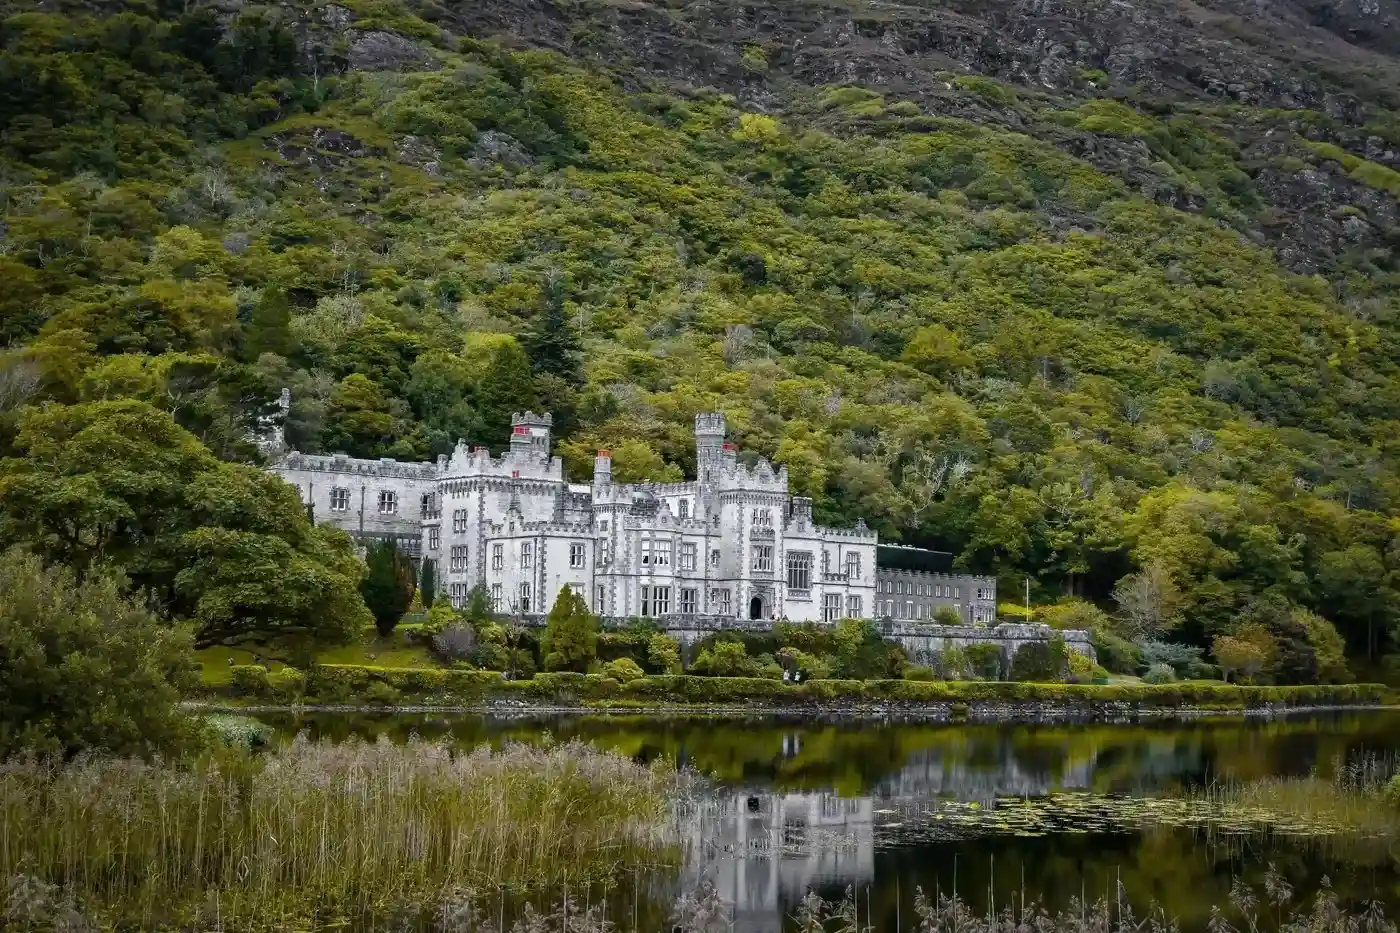
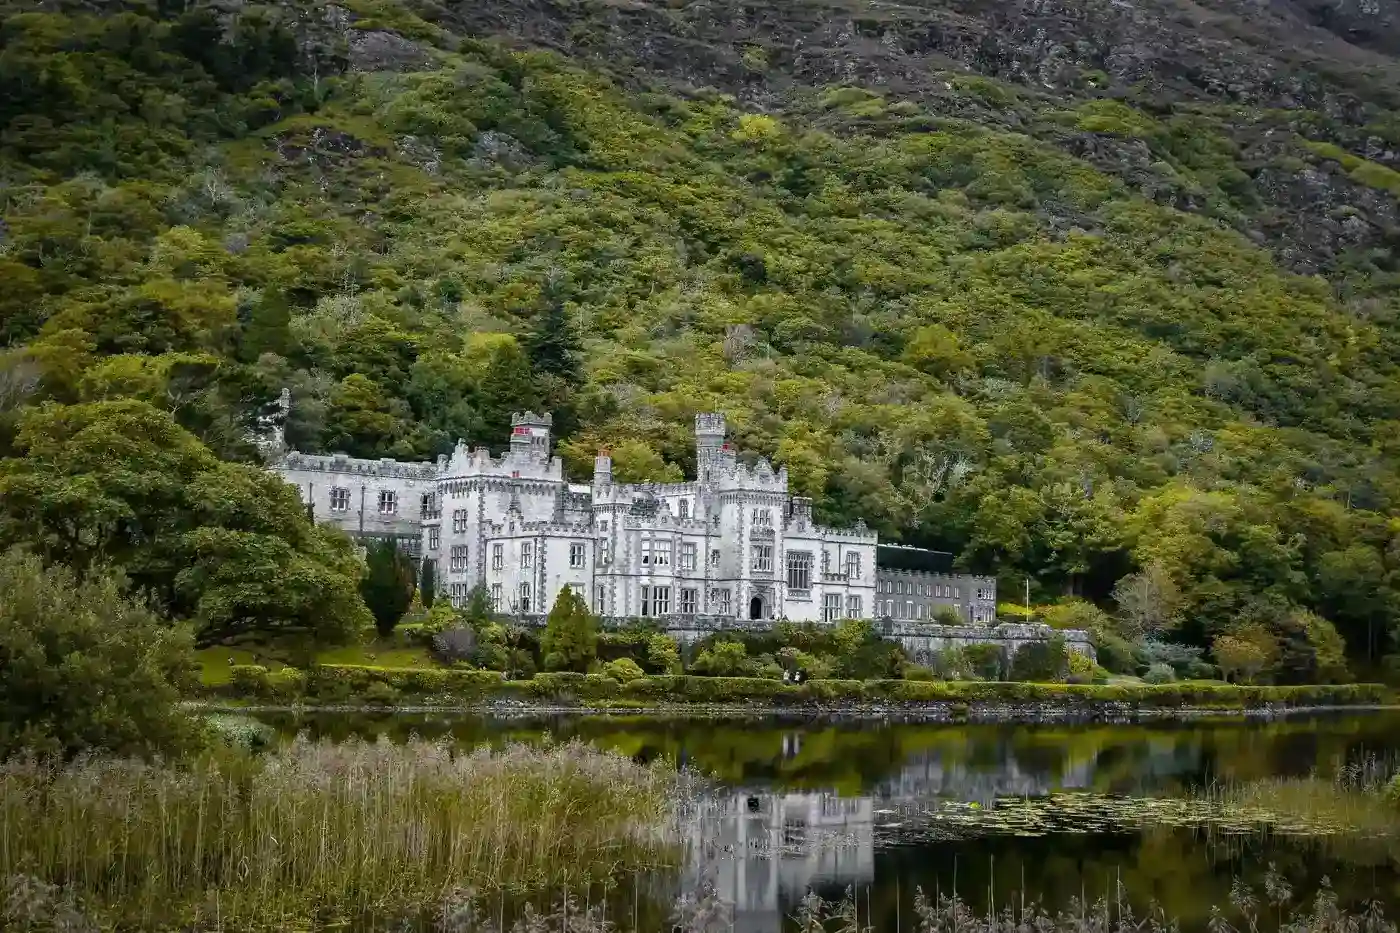
jk

diff --git a/styles/place-large.css b/styles/place-large.css
@@ -1,10 +1,4 @@
 
-:root {
-    --firstcolor: rgb(0, 154, 68);
-    --secondcolor: rgb(255, 255, 255);
-    --thridcolor: rgb(255, 130, 0);
-    --fourthcolor: rgb(0,0,0);
-}
 @media  screen  and (min-width:700px) {
     body{
         display: grid;
